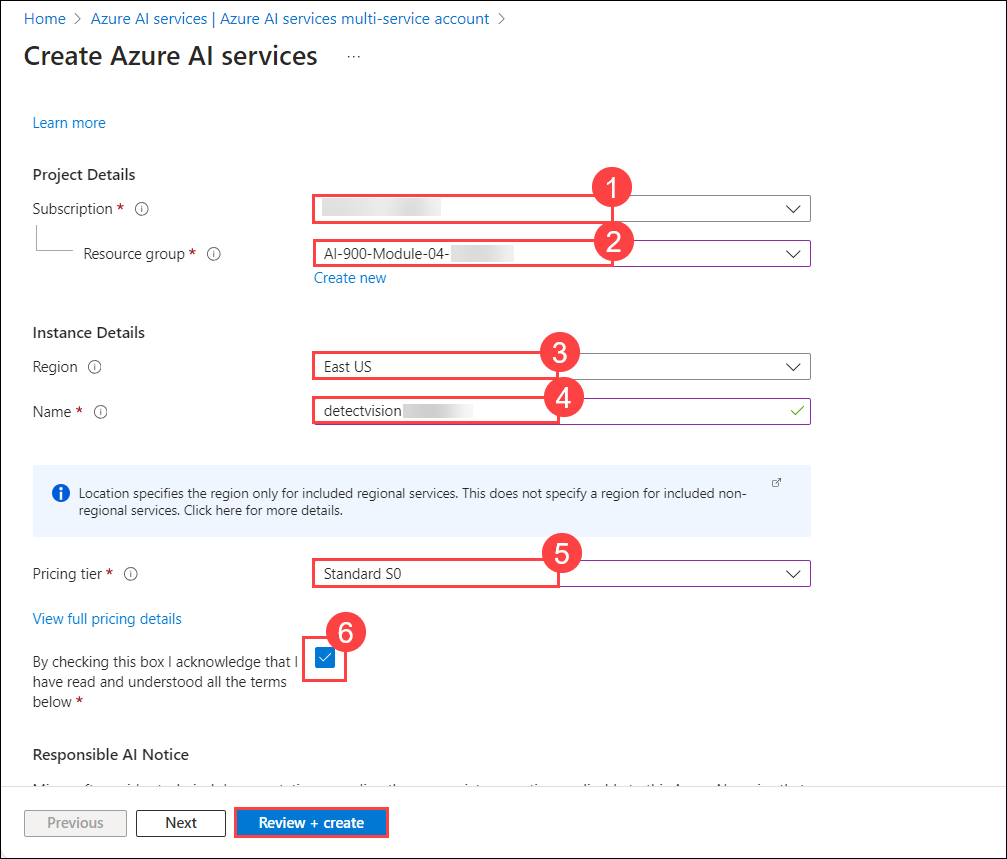
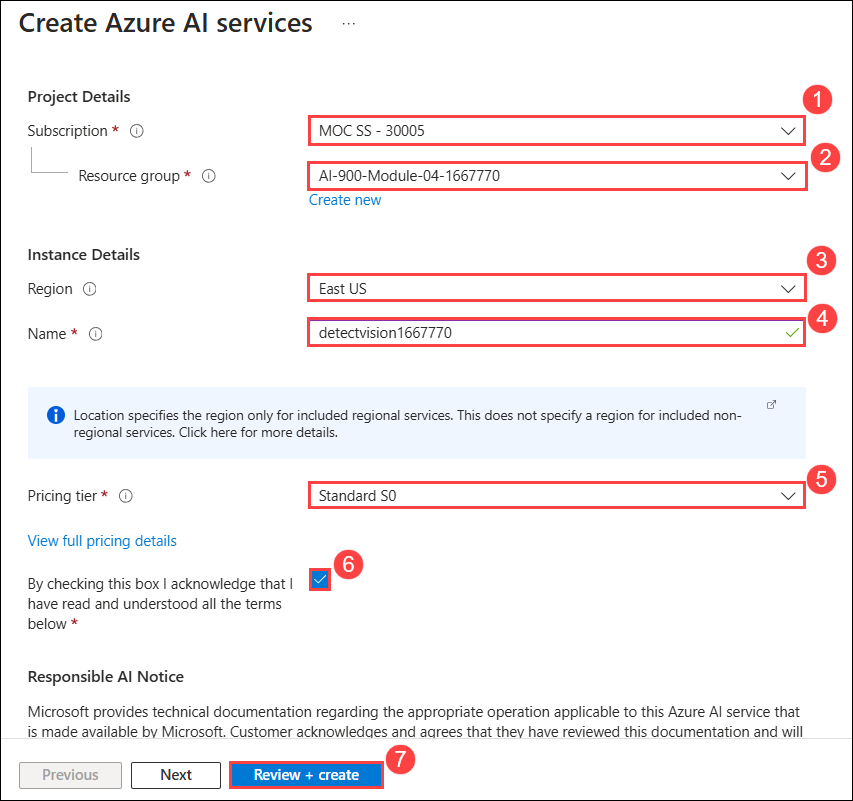
updated module 4 labguide

diff --git a/Instructions/Labs/04-face.md b/Instructions/Labs/04-face.md
@@ -18,19 +18,19 @@ In this lab, you will perform:
 
 ![An image](media/lab-04.PNG)
 
-## Exercise 1:  Detect faces in Vision Studio 
+## Exercise 1: Detect faces in Vision Studio 
 
-### Task 1:  Create an *Azure AI services* resource
+### Task 1: Create an Azure AI services resource
 
 In this task, you will learn how to create an **Azure AI Services** resource to access various AI capabilities for your applications.
 
 You can use Azure AI Face service with an **Azure AI services** multi-service resource. If you haven't already done so, create an **Azure AI services** resource in your Azure subscription.
 
-1. In the Azure portal,  search for *Azure AI services (1)*. Select an **Azure AI services multi-service account(2)**.
+1. In the Azure portal,  search for **Azure AI services (1)**. Select an **Azure AI services multi-service account(2)**.
 
     ![The image and its captions are displayed.](./media/aiservice.png)
 
-1. You will be taken to a page to create an Azure AI services resource. please click on **Create** Configure it with the following settings:
+1. You will be taken to a page to create an Azure AI services resource. please click on **+ Create** Configure it with the following settings:
    
     - **Subscription (1)**: Use the existing Azure subscription.
     - **Resource group (2)**: **AI-900-Module-04-<inject key="DeploymentID" enableCopy="false" />**
@@ -38,10 +38,13 @@ You can use Azure AI Face service with an **Azure AI services** multi-service re
     - **Name (4)**: Enter **detectvision<inject key="DeploymentID" enableCopy="false"/>**
     - **Pricing tier (5)**:Select **Standard S0**.
     - **By checking this box I acknowledge that I have read and understood all the terms below (6)**: *Selected*.
+    - Click **Review + create (7)** 
 
       ![The image and its captions are displayed.](./media/dev2n4.png)
 
-1. Select **Review + create** then **Create** and wait for deployment to complete.
+1. On the Review + create tab, select **Create** and wait for deployment to complete.
+ 
+     ![The image and its captions are displayed.](./media/4-5.png)
   
 ### Task 2: Connect your Azure AI service resource to Vision Studio
 
@@ -49,11 +52,11 @@ In this task, you will learn how to connect your **Azure AI Services** resource 
 
 Next, connect the Azure AI services resource you provisioned above to Vision Studio.
 
-1. In another browser tab, navigate to [Vision Studio](https://portal.vision.cognitive.azure.com?azure-portal=true).
+1. Open a new browser tab and go to **Vision Studio** at [https://portal.vision.cognitive.azure.com](https://portal.vision.cognitive.azure.com?azure-portal=true).
 
-1. Sign in with your account and make sure you are using the same directory as the one where you have created your Azure AI services resource. if you receive a pop-up to select the resource please click on the **X** icon to close the popup.
+1. Click on **Sign in** in the top right corner, then log in with your account. Make sure you're using the same directory where you created your Azure AI services resource. If a pop-up appears asking you to select a resource, click the **X** icon to close it.
 
-   ![The image and its captions are displayed.](./media/lab3-2n.png)
+   ![The image and its captions are displayed.](./media/4-6.png)
 
 1. On the Vision Studio home page, select **View all resources** under the **Getting started with Vision** heading.
 
@@ -72,6 +75,7 @@ Next, connect the Azure AI services resource you provisioned above to Vision Stu
 In this task, you will learn how to detect faces in Vision Studio to analyze facial attributes and recognize individuals.
 
 1. In a web browser, navigate to **Vision Studio** at [https://portal.vision.cognitive.azure.com](https://portal.vision.cognitive.azure.com?azure-portal=true).
+
 1. On the **Getting started with Vision** landing page, select the **Face** tab and then select the **Detect Faces in an image** tile.
 
     ![The image and its captions are displayed.](./media/lab4-1.png)
@@ -82,13 +86,26 @@ In this task, you will learn how to detect faces in Vision Studio to analyze fac
 
 1. Select each of the sample images and observe the face detection data that is returned.
 
-1. Copy this link and paste it into the browser [**https://aka.ms/mslearn-images-for-analysis**](https://aka.ms/mslearn-detect-faces) to download **image-analysis.zip**. Open the folder on your computer.
+1. Copy highlighted link by right-clicking the [**https://aka.ms/mslearn-images-for-analysis**](https://aka.ms/mslearn-images-for-analysis) and selecting "Copy" from the context menu and paste it into the new tab to download **detect-faces.zip**. 
 
-1. Open the folder on your computer, extract the zip file, and locate the file named **store-camera-1.jpg**; which contains the following image:
+1. Click the **download icon (1)** to view your downloads, then click the **folder icon (2)** to open the file location.
 
-    ![An image of people in a store.](./media/create-face-solutions/store-camera-1.jpg)
+   ![](./media/4-1.png)
 
-1. Upload **store-camera-1.jpg** and review the face detection details that are returned.
+1. **Right-click** the **ZIP file (1)**  and select **Extract All (2)** to **unzip** its contents. 
+
+   ![](./media/4-2.png)
+
+1. Select the destination folder, ensure Show extracted files when complete is checked, and click **Extract** to unzip the files. 
+
+   ![](./media/4-3.png)
+
+1. Go back to the Vision Studio  and upload the **WhatAICanDo.m4a** image by clicking **Browse files (1)**. Then, navigate to the **C:\Users\azureuser\Downloads\detect-faces (2)** folder, select **store-camera-1 (3)**, and click **Open (4)**.
+
+   ![](./media/4-4.png)
+
+
+1. Review the face detection details that are returned.
 
     ![The image and its captions are displayed.](./media/lab4-2.png)
 
@@ -104,14 +121,13 @@ In this task, you will learn how to detect faces in Vision Studio to analyze fac
 
 1. Upload **store-camera-2.jpg** and review the face detection details that are returned. Notice how Azure AI Face can detect faces that are partially obscured. 
 
-
 ## Validation
 
 > **Congratulations** on completing the task! Now, it's time to validate it. Here are the steps:
  
 - Hit the Validate button for the corresponding task. you will receive a success message. 
 - If not, carefully read the error message and retry the step, following the instructions in the lab guide.
-- If you need any assistance, please contact us at labs-support@spektrasystems.com. We are available 24/7 to help you out.
+- If you need any assistance, please contact us at cloudlabs-support@spektrasystems.com We are available 24/7 to help you out.
 
    <validation step="b774c119-03ee-46b1-b09e-611e0652ec06" />
 
